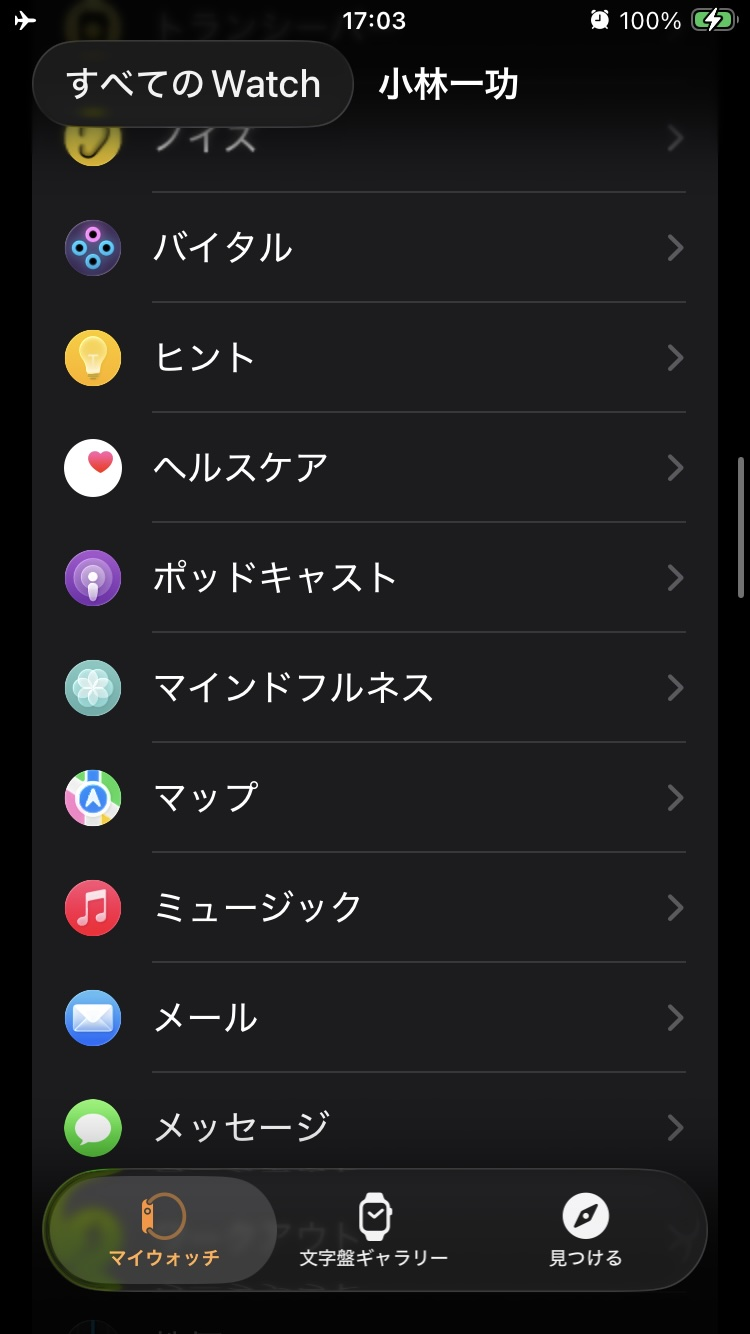
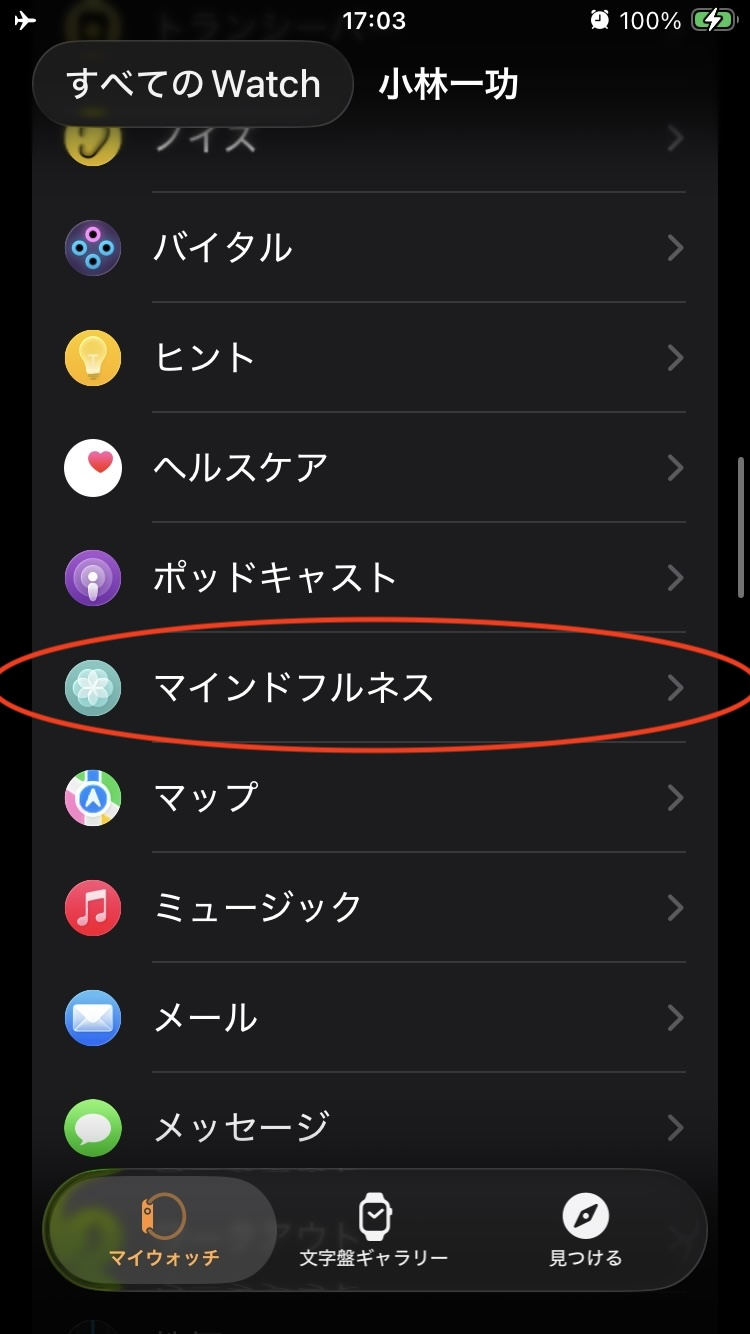
iPhoneのWatch設定追加

diff --git a/manual/02_AppleWatchMindfulnessBreathing.html b/manual/02_AppleWatchMindfulnessBreathing.html
@@ -109,7 +109,7 @@
     <h1>「マインドフルネス」アプリの「呼吸」でゆっくり鼻で腹式呼吸をしましょう</h1>
     <p>ゆっくりした「呼吸」をガイドすることで、マインドフルネス瞑想をサポートする機能です。息を吸って空気が身体に入ってくる感覚、胸やお腹が膨らむ感覚、吐くと緩む感覚など、自分が「今、呼吸していること」に集中します。</p>
 
-    <h2>1. 1分間の呼吸回数と振動を変更する</h2>
+    <h2>1-1. 1分間の呼吸回数と振動を変更する（Apple Watchの設定から）</h2>
     <p>1分間の呼吸回数や、ガイドの振動（触覚）の強さを好みに合わせて変更できます。</p>
     <ol>
         <li>「Digital Crown」を押します。
@@ -149,6 +149,46 @@
                 <img src="02/IMG_1834.jpeg" alt="触覚の選択">
         </div>
         </p>
+    </ol>
+
+    <h2>1-2. 1分間の呼吸回数と振動を変更する（iPhoneの Watch設定から）</h2>
+    <p>iPhoneの「Watch」アプリからも、1分間の呼吸回数（呼吸の頻度）や、ガイドの振動（触覚）の強さを変更できます。</p>
+    <ol>
+        <li>iPhoneのホーム画面で「Watch」アプリを探し、タップします。
+            <div class="image-container">
+                <img src="02/IMG_1897_settings_circled.jpg" alt="iPhoneでWatchアプリを開く">
+            </div>
+        </li>
+        <li>画面下のタブで［マイウォッチ］を開きます。
+            <div class="image-container">
+                <img src="02/IMG_1898.PNG" alt="Watchアプリのマイウォッチ画面">
+            </div>
+        </li>
+        <li>下へスクロールして［マインドフルネス］を探し、タップします。
+            <div class="image-container">
+                <img src="02/IMG_1899_settings_circled.jpeg" alt="Watchアプリの一覧からマインドフルネスを選ぶ">
+            </div>
+        </li>
+        <li>［呼吸の頻度］をタップします。
+            <div class="image-container">
+                <img src="02/IMG_1901_breathing_rate.jpg" alt="マインドフルネス設定で呼吸の頻度を開く">
+            </div>
+        </li>
+        <li>1分間の呼吸の回数（4〜10呼吸/分）を選択します。
+            <div class="image-container">
+                <img src="02/IMG_1902.PNG" alt="呼吸の頻度の選択">
+            </div>
+        </li>
+        <li>前の画面に戻り、［触覚］をタップします。
+            <div class="image-container">
+                <img src="02/IMG_1901_tactile_sense.jpg" alt="マインドフルネス設定で触覚を開く">
+            </div>
+        </li>
+        <li>振動の強さを「なし」「最小限」「はっきり」から選択します。
+            <div class="image-container">
+                <img src="02/IMG_1903.PNG" alt="触覚（振動）の選択">
+            </div>
+        </li>
     </ol>
 
     <h2>2. 呼吸の継続時間を設定する</h2>
